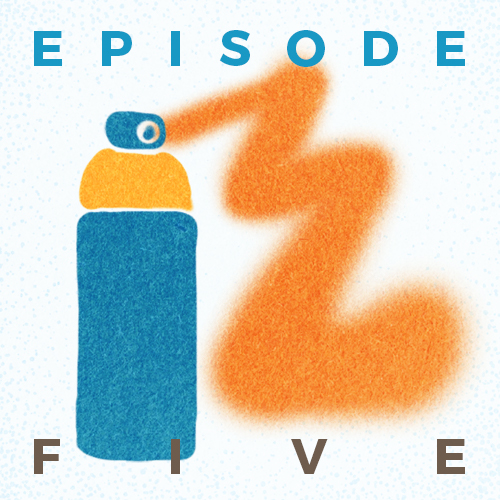
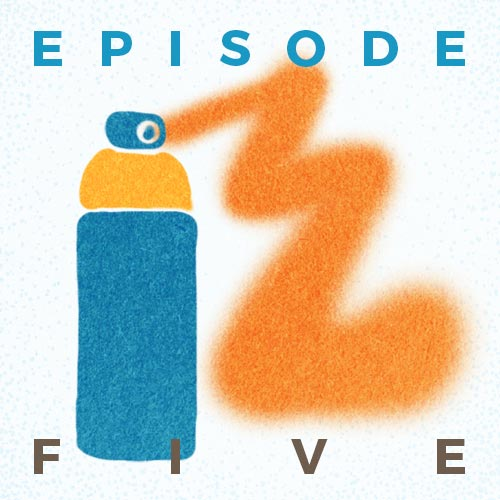
Optimizations
- Add aria labels to buttons
- Compress cover art episodes 5, 6, and 7
- Increase contrast for 'Share Your Story' form
- Add rel='noopener' to links that open with target='_blank'
- Add 512px splash icon .png

diff --git a/src/components/SubscribeLinks.js b/src/components/SubscribeLinks.js
@@ -9,7 +9,8 @@ function SubscribeLinks({className = 'subscribe-links'}) {
 				<li>
 					<a 
 						href="https://itunes.apple.com/us/podcast/mobilize/id1229280265" 
-						target="_blank"
+						target="_blank" 
+						rel="noopener"
 					>
 						iTunes
 					</a>
@@ -18,7 +19,8 @@ function SubscribeLinks({className = 'subscribe-links'}) {
 					<a 
 						href="https://playmusic.app.goo.gl/?ibi=com.google.PlayMusic&amp;isi=691797987&amp;ius=googleplaymusic&amp;link=https://play.google.com/music/m/I3jcwhqyumtfgwz3kbwrm7upwlm?t%3DMobilize%26pcampaignid%3DMKT-na-all-co-pr-mu-pod-16" 
 						rel="nofollow" 
-						target="_blank"
+						target="_blank" 
+						rel="noopener"
 					>
 						Google Play
 					</a>
@@ -27,6 +29,7 @@ function SubscribeLinks({className = 'subscribe-links'}) {
 					<a 
 						href="http://www.stitcher.com/podcast/mobilize" 
 						target="_blank" 
+						rel="noopener"
 					>
 						Stitcher
 					</a>
@@ -35,6 +38,7 @@ function SubscribeLinks({className = 'subscribe-links'}) {
 					<a 
 						href="https://www.mobilizehere.com/podcast.rss" 
 						target="_blank" 
+						rel="noopener"
 					>
 						RSS
 					</a>

diff --git a/src/components/Player/Player.js b/src/components/Player/Player.js
@@ -33,6 +33,7 @@ function MainPlayer({
 					<div className="player-button-set">
 						<button 
 							onClick={playingFirstTrack ? noop : previous}
+							aria-label="Next Episode"
 							className={[
 								'ctrl-btn',
 								playingFirstTrack ? 'disabled-btn' : ''
@@ -42,12 +43,14 @@ function MainPlayer({
 						</button>
 						<button 
 							onClick={playing ? pause : play}
+							aria-label={playing ? 'Pause' : 'Play'} 
 							className="ctrl-btn"
 						>
 							<PlayerIcon type={playing ? 'pause' : 'play'} />
 						</button>
 						<button 
 							onClick={playingLastTrack ? noop : next}
+							aria-label="Previous Episode"
 							className={[
 								'ctrl-btn',
 								playingLastTrack ? 'disabled-btn' : ''
@@ -85,6 +88,7 @@ function MainPlayer({
   						playerRef.seekTo(parseFloat(e.target.value));
   						endSeek();
   					}}
+  					aria-label="Seek"
 				/>
 			</div>
 			<ReactPlayer 

diff --git a/src/Html.js b/src/Html.js
@@ -15,6 +15,7 @@ const favicon96 = require('./assets/icons/favicon-96x96.png');
 const favicon16 = require('./assets/icons/favicon-16x16.png');
 const msIcon144 = require('./assets/icons/ms-icon-144x144.png');
 const largeImage = require('./assets/images/about/mobilize-logo-big.jpg');
+const splash = require('./assets/images/icons/splash.png');
 
 const T = React.PropTypes;
 
@@ -50,6 +51,8 @@ const Html = ({
         <link rel="icon" type="image/png" sizes="32x32" href={favicon32} />
         <link rel="icon" type="image/png" sizes="96x96" href={favicon96} />
         <link rel="icon" type="image/png" sizes="16x16" href={favicon16} />
+        <link rel="icon" type="image/png" sizes="512x512" href={splash} />
+
         <meta name="msapplication-TileColor" content="#2096c3" />
         <meta name="msapplication-TileImage" content={msIcon144} />
         <meta name="theme-color" content="#2096c3" />

diff --git a/src/components/Player/PlayerBtn.js b/src/components/Player/PlayerBtn.js
@@ -13,6 +13,7 @@ function PlayerBtn({episode, nowPlaying, queue, playing, discovered, playNow, pl
 	const PlayBtn = (
 		<button 
 			onClick={(e) => playNow(episode)} 
+			aria-label={'Play ' + episode.title} 
 			className="podcast-display-btn"
 		>
 			<PlayerIcon type="playInCircle" />
@@ -22,6 +23,7 @@ function PlayerBtn({episode, nowPlaying, queue, playing, discovered, playNow, pl
 	const PauseBtn = (
 		<button 
 			onClick={pause} 
+			aria-label={'Pause ' + episode.title} 
 			className="podcast-display-btn"
 		>
 			<PlayerIcon type="pauseInCircle" />
@@ -30,6 +32,7 @@ function PlayerBtn({episode, nowPlaying, queue, playing, discovered, playNow, pl
 	const ResumeBtn = (
 		<button 
 			onClick={resume} 
+			aria-label={'Resume ' + episode.title} 
 			className="podcast-display-btn"
 		>
 			<PlayerIcon type="playInCircle" />

diff --git a/src/components/Nav.js b/src/components/Nav.js
@@ -6,17 +6,17 @@ import closeNav from '../assets/images/template/nav-close.jpg'
 
 function ToggleNav({showNav, toggleNav}) {
 	return (
-		<div className="hamburger hide-desktop" onClick={toggleNav}>
+		<div className="hamburger hide-desktop">
 			{showNav ? 
-				<div>
+				<button aria-label="close menu" onClick={toggleNav}>
 					<img src={closeNav} className="img-responsive" alt="Hide Navigation" />
-				</div>
+				</button>
 				: 
-				<div>
+				<button aria-label="menu" onClick={toggleNav}>
 					<div className="hamburger-line"></div>
 					<div className="hamburger-line"></div>
 					<div className="hamburger-line"></div>
-				</div>
+				</button>
 			}
 		</div>
 	);

diff --git a/src/components/Template.js b/src/components/Template.js
@@ -81,7 +81,7 @@ class Template extends React.Component {
 				<Nav showNav={showNav} toggleNav={toggleNav} />
 				{children}
 				<div className="lz-footer lz-padding text-center">
-					<span>2017 &copy; Reserved to Mobilize - Hosted with <a href="https://www.netlify.com" target="_blank">Netlify</a> - <a href="https://github.com/mobilizehere/mobilizehere.com" target="_blank">Source</a></span>
+					<span>2017 &copy; Reserved to Mobilize - Hosted with <a href="https://www.netlify.com" target="_blank" rel="noopener">Netlify</a> - <a href="https://github.com/mobilizehere/mobilizehere.com" target="_blank" rel="noopener">Source</a></span>
 				</div>
 				<MainPlayer />
 			</div>

diff --git a/src/components/pages/Home.js b/src/components/pages/Home.js
@@ -22,7 +22,7 @@ function Home({route, featuredEpisode, aboutText}) {
 			</div>
 			<ShareYourStory />
 			<div className="lz-dbl-padding">
-				<a href="https://www.mobilizehere.com/assets/Rise-Up-Choir-Sheet-Music-Sibelius.pdf" target="_blank">
+				<a href="https://www.mobilizehere.com/assets/Rise-Up-Choir-Sheet-Music-Sibelius.pdf" target="_blank" rel="noopener">
 					<img src={downloadSheetMusic} className="img-responsive lz-padding" alt="Download Rise Up Sheet Music" />
 				</a>
 				<Link to={'/take-action/'}>

diff --git a/src/css/share-your-story.scss b/src/css/share-your-story.scss
@@ -2,11 +2,11 @@
 
 .share-your-story {
 	background: $orange;
-	color: darken($orange, 25%);
+	color: darken($orange, 45%);
 	padding: $lz-padding ($lz-padding / 2);
 
 	h1, h2, h3, h4, h5, h6 {
-		color: darken($orange, 25%);
+		color: darken($orange, 45%);
 		margin: 0;
 		margin-bottom: $lz-padding / 2;
 	}
@@ -15,7 +15,7 @@
 		display: none;
 		padding: 0 ($lz-padding / 2);
 		text-align: center;
-		color: lighten($orange, 45%);
+		color: darken($orange, 45%);
 	}
 
 }

diff --git a/webpack.config.production.js b/webpack.config.production.js
@@ -63,7 +63,9 @@ module.exports = {
       cache: {
         "short_name": "Mobilize",
         "name": "Mobilize Here",
-        "start_url": "/"
+        "start_url": "/",
+        "background_color": "#fafeff",
+        "theme_color": "#fafeff"
       }
     }),
     new HtmlWebpackPlugin({

diff --git a/src/css/index.scss b/src/css/index.scss
@@ -121,6 +121,15 @@ a {
 	user-select: none;
 	@include hide-desktop();
 
+	button {
+		display: block;
+		background: transparent;
+		outline: none;
+		padding: 0;
+		margin: 0;
+		border-radius: 0;
+	}
+
 	img {
 		width: 18px;
 		margin: 8px 7px;
